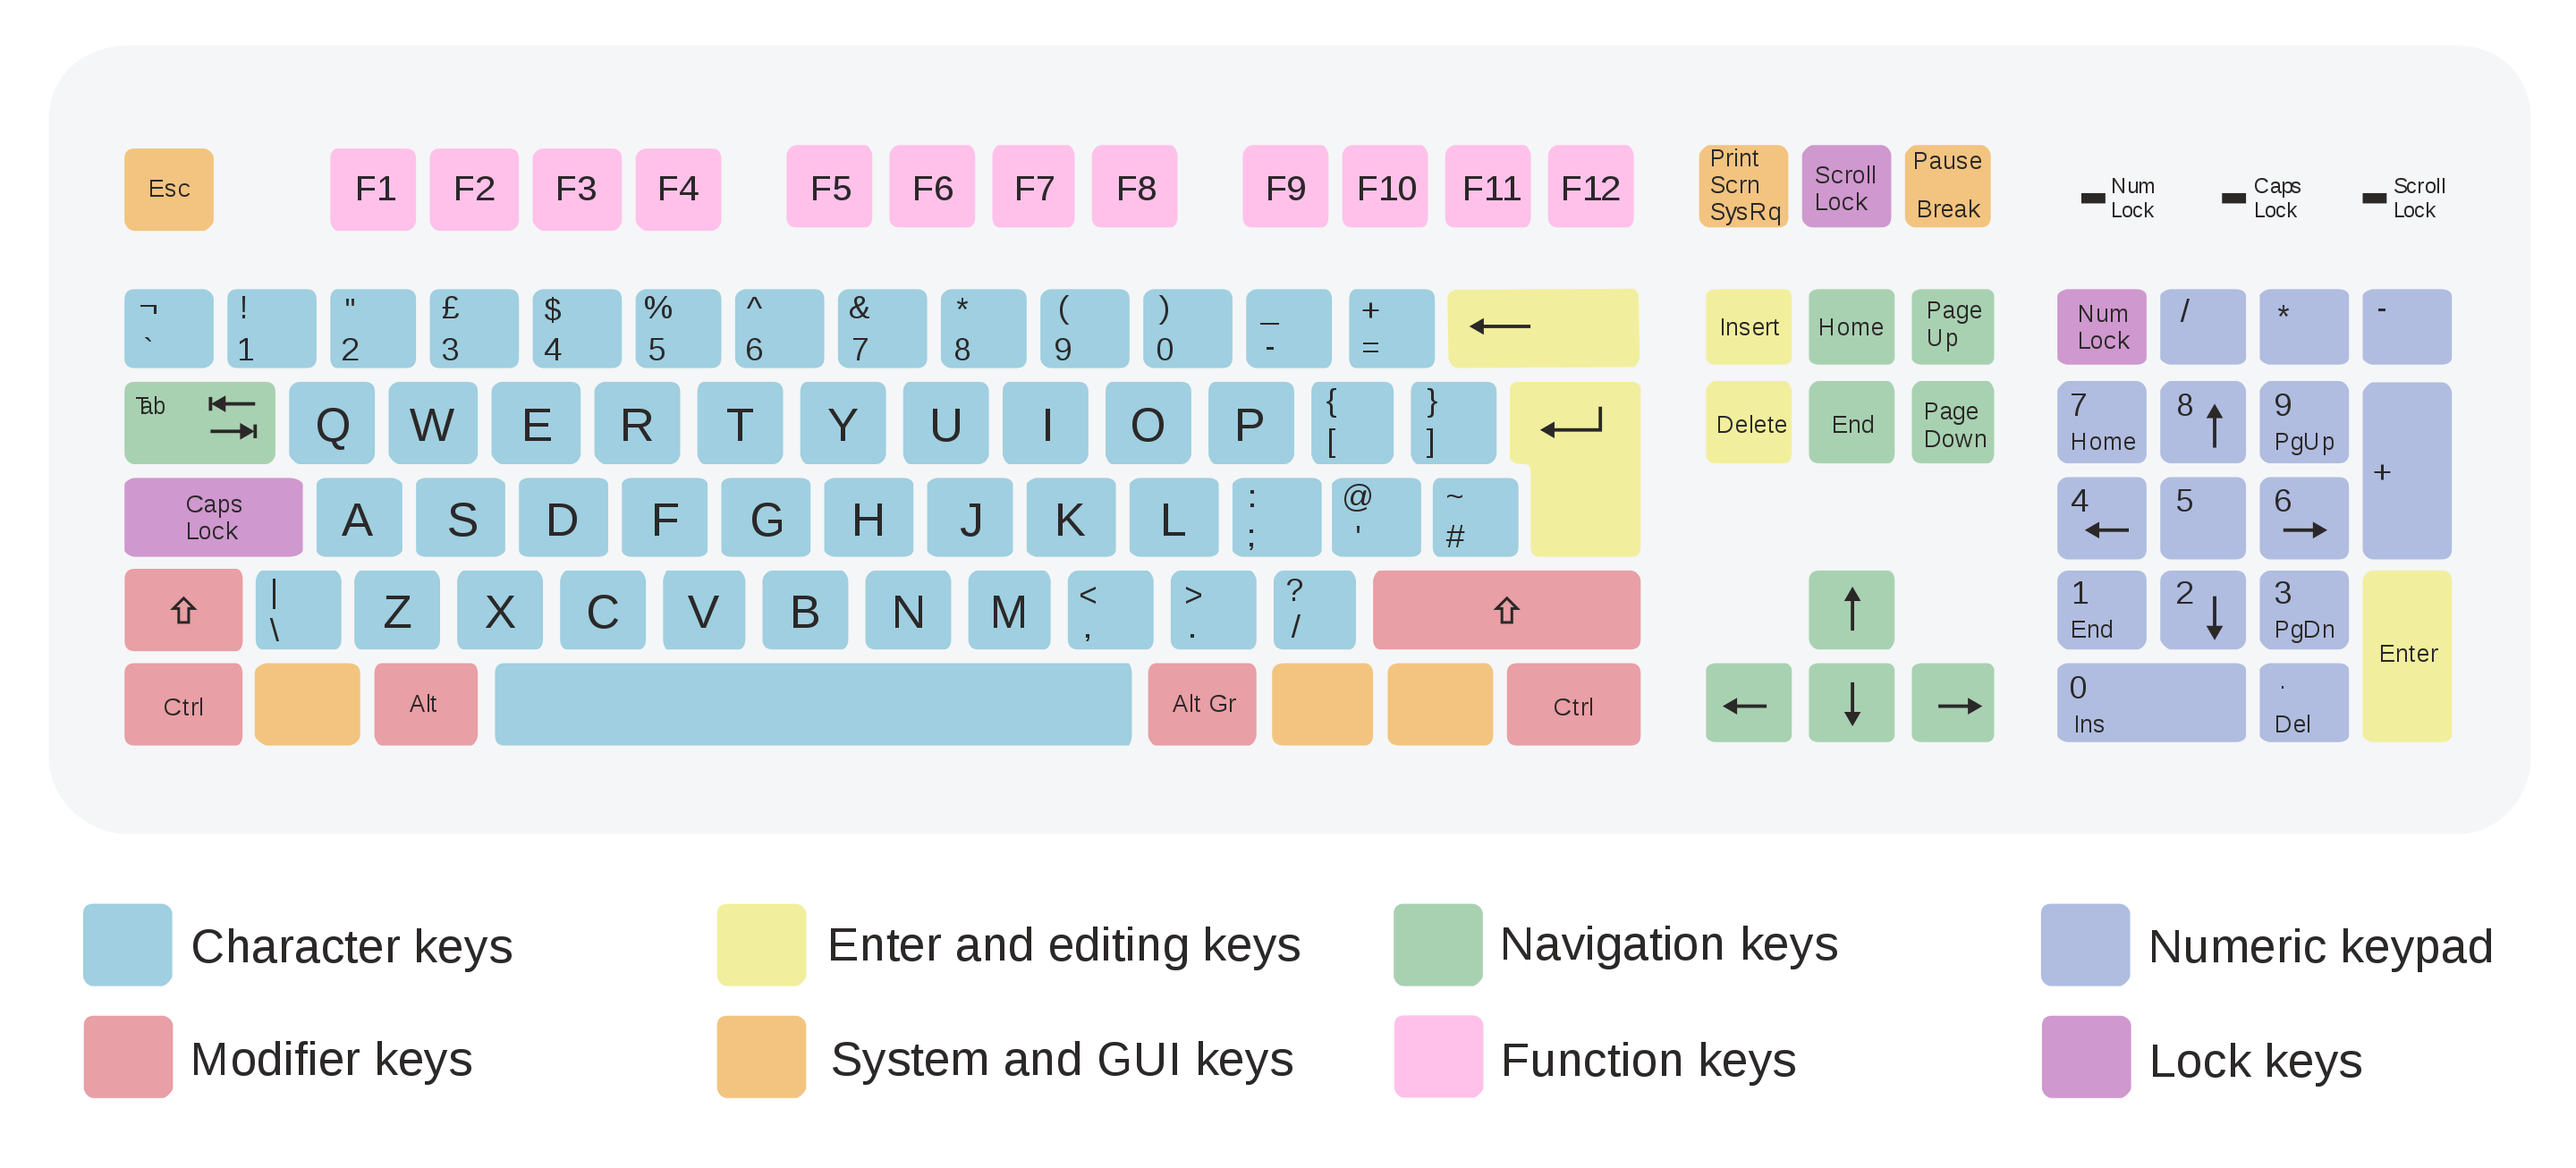
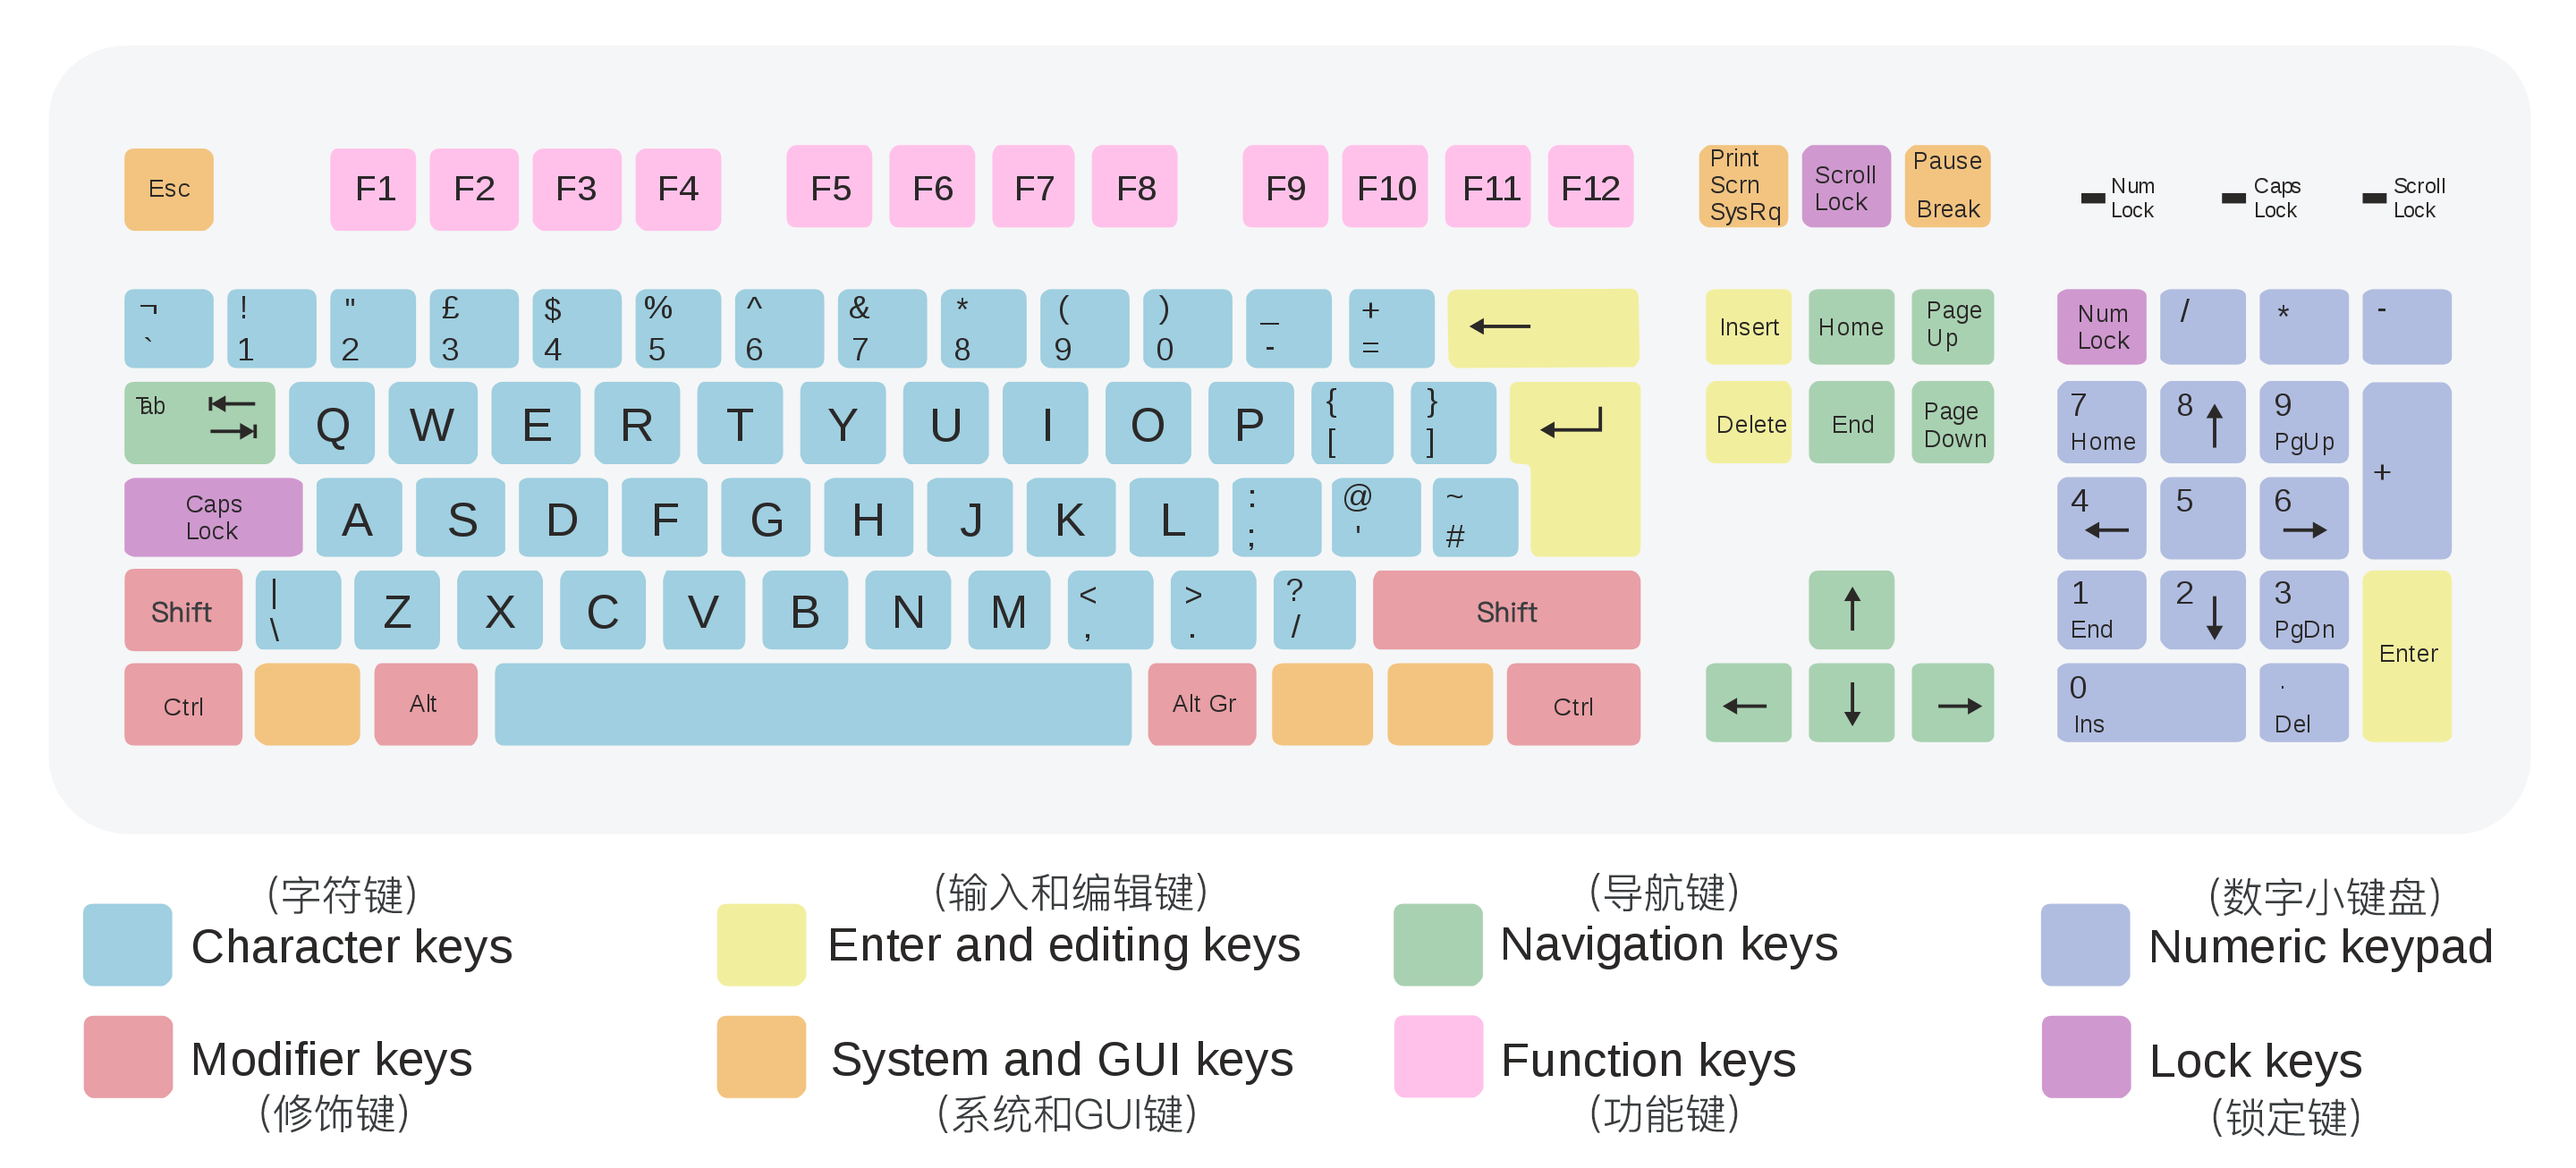
2021.11.21 15:04 mac edited

diff --git a/Windows/Windows-入门教程.md b/Windows/Windows-入门教程.md
@@ -1,43 +1,45 @@
-## Windows 入门教程 
+# Windows 入门教程 
 
-- 键盘的布局:
-    + 107 键的标准键盘共分为 5 个区:
-        - (1) `最上排` 为 `功能区`
-        - (2) `左侧` 最长部分为 `标准键盘区`
-        - (3) `中间` 为 `光标控制键区` 
-        - (4) `最右侧` 为 `小键盘区`
-        - (5) `右上侧 ` 为 `3 个状态指示灯` 
-- 标准键盘布局
-  <img src="../win-images/keyboard.svg.png" style="display:block; margin-left: 0;"> 
-    + **Character keys : 字符键** (包含: `26个英文字母键` + `数字键` + `标点符号键等`)
-        - (1.) `1, 2, 3, 4, 5, 6, 7, 8, 9, 0, -, =` 这些数字字符可以直接输入, 数字头上的
-          各种符号, 输入时按下 `Shift` 键便可以打出. (例如: `#` = 按下 `Shift + 3`)
-        - (2.) 熟背 26 个英文字符键: 可以这样背:
-            + 第一行字母键: `Q, W, E, R, T`; `Y, U, I, O, P`
-            + 第二行字符键: `A, S, D, F, G`; `H, J, K, L`
-            + 第三行字符键: `Z, X, C, V, B, N, M`
-    + **Modifier keys: 修饰键**
-    + **Enter and editing keys: 输入 和 编辑器**
-        - `Enter`键: 又叫回车键. 按此键表示开始执行输入的命令, 在输入字符时, 按下此键
-          表示换行.
-    + **System and GUI keys: 系统 和 GUI 键**
-        - `ESC` 键: 退出键. 功能是退出当前环境(应用), 返回到原菜单.
-        - 
-    + **Navigation keys: 导航键**
-    + **Function keys: 功能键**
-    + **Numeric Keypad: 数字小键盘**
-    + **Lock keys: 锁定键** 
 
-- 键盘手指的分工:
-    + (1) 左手小指主管 5 个键: `1, Q, A, Z` 和 左 `Shift` 键, 此外还分管左边的一些控制
-      键. 
-    + (2) 左手无名指主管 4 个键: `2, W, S , X` 
-    + (3) 左手中指主管 4 个键: `3, E, D, C`
-    + (4) 左手食指主管 8 个键: `4, R, F, V,` `5, T, G, B`
-    + (5) 2 个大拇指专门击打`空格键` (既:最长的长条键).
-    + (6) 右手食指主管 8 个键: `6, Y, H, N`, `7, U, J, M`
-    + (7) 右手中指主管 4 个键: `8, I, K,` `,`
-    + (8) 右手无名指主管 4 个键: `9, O, L,` `.`
-    + (9) 右手小手指主管 5 个键: `0, P,` `;`,`/` 和 右 `Shift` 键, 此外还分管右边的一些
-      控制键
+<p color="#">   </p>
+
+## 标准键盘布局
+
+<img src="./win-images/keyboard.svg.png" style="display:block; margin-left: 0;"> 
+
+#### Character keys (字符键)
+**包含: `26个英文字母键` + `数字键` + `标点符号键等`**
+
+- (1) `1, 2, 3, 4, 5, 6, 7, 8, 9, 0, -, =` 这些数字字符可以直接输入, 数字头上的各种符号, 输入时按下 `Shift` 键便可以打出. (例如: `#` = 按下 `Shift + 3`)
+- (2) 熟背 26 个英文字符键: 可以这样背:
+    + 第一行字母键: `Q, W, E, R, T`; `Y, U, I, O, P`
+    + 第二行字符键: `A, S, D, F, G`; `H, J, K, L`
+    + 第三行字符键: `Z, X, C, V, B, N, M`
+
+#### Modifier keys (修饰键)
+
+#### Enter and editing keys (输入 和 编辑器)
+- `Enter`键: 又叫回车键. 按此键表示开始执行输入的命令, 在输入字符时, 按下此键表示换行.
+
+#### System and GUI keys (系统 和 GUI 键)
+- `ESC` 键: 退出键. 功能是退出当前环境(应用), 返回到原菜单.
+
+#### Navigation keys (导航键)
+
+#### Function keys (功能键)
+
+#### Numeric Keypad (数字小键盘)
+
+#### Lock keys (锁定键)
+
+## 键盘手指的分工:
+1. 左手小指主管 5 个键: `1, Q, A, Z` 和 左 `Shift` 键, 此外还分管左边的一些控制键. 
+2. 左手无名指主管 4 个键: `2, W, S , X` 
+3. 左手中指主管 4 个键: `3, E, D, C`
+4. 左手食指主管 8 个键: `4, R, F, V,` `5, T, G, B`
+5. 2 个大拇指专门击打`空格键` (既:最长的长条键).
+6. 右手食指主管 8 个键: `6, Y, H, N`, `7, U, J, M`
+7. 右手中指主管 4 个键: `8, I, K,` `,`
+8. 右手无名指主管 4 个键: `9, O, L,` `.`
+9. 右手小手指主管 5 个键: `0, P,` `;`,`/` 和 右 `Shift` 键, 此外还分管右边的一些控制键
 
